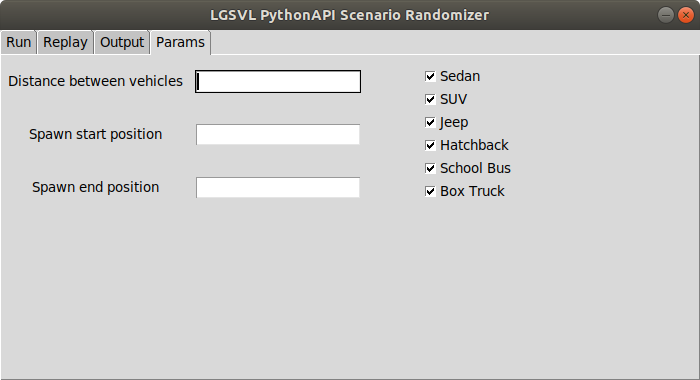
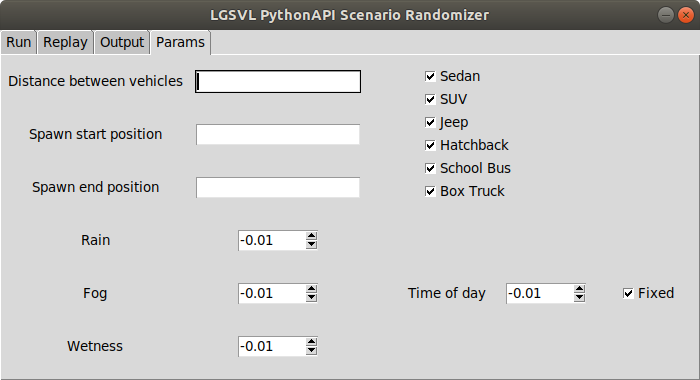
added weather

diff --git a/RS_scripts/GUI.py b/RS_scripts/GUI.py
@@ -33,6 +33,7 @@ tabControl.add(tab3, text="Output")
 tab4 = ttk.Frame(tabControl)
 tabControl.add(tab4, text='Params')
 
+
 # ~~~~~~~~~~~~~~~~~~~~~~~~~~~~~~~~~~~~~~~~~~~~~~~~~~~~~~~~~~~~~~~~~~~~~~~~~~~~~~~~~~~~~~~~~~~
 # These functions are mostly helper functions, which are called by various buttons and entry boxes
 
@@ -86,6 +87,50 @@ def validate_float(action, index, value_if_allowed,
                 return True
             except ValueError:
                 return False
+        else:
+            return False
+    else:
+        return True
+
+
+# validate only ints or floats are entered in entry box, negatives not allowed
+# noinspection PyUnusedLocal
+def validate_float_spinbox(action, index, value_if_allowed,
+                           prior_value, text, validation_type, trigger_type, widget_name):
+    # action=1 -> insert
+    if action == '1':
+        if text in '0123456789.':
+            try:
+                float(value_if_allowed)
+            except ValueError:
+                return False
+            else:
+                if float(value_if_allowed) > 1.0:
+                    return False
+                else:
+                    return True
+        else:
+            return False
+    else:
+        return True
+
+
+# validate only ints or floats are entered in entry box, negatives not allowed
+# noinspection PyUnusedLocal
+def validate_float_timeofday(action, index, value_if_allowed,
+                             prior_value, text, validation_type, trigger_type, widget_name):
+    # action=1 -> insert
+    if action == '1':
+        if text in '0123456789.':
+            try:
+                float(value_if_allowed)
+            except ValueError:
+                return False
+            else:
+                if float(value_if_allowed) > 24.0:
+                    return False
+                else:
+                    return True
         else:
             return False
     else:
@@ -332,7 +377,6 @@ def validate_pickles(path):
 
 # show and format nicely the existing pickle files in the temp folder, as checkboxes
 def update_available_replays(canvas):
-    print('update canvas')
     try:
         keys = getKeys('')
         if keys == '':
@@ -400,7 +444,9 @@ def run():
         msg = Randomizer.run(tab1_vehicle_name_entry.get(), variable_NPCs.get(), tab1_map_entry.get(),
                              tab1_runtime_entry.get(), tab1_seed_entry.get(), tab1_timescale_entry.get(),
                              distbetween=tab4_distbetweencars_entry.get(), cars_to_use=array_vehiclenames(),
-                             spawn_start=tab4_spawnstart_entry.get(), spawn_end=tab4_spawnend_entry.get())
+                             spawn_start=tab4_spawnstart_entry.get(), spawn_end=tab4_spawnend_entry.get(),
+                             rain=tab4_rain_entry.get(), fog=tab4_fog_entry.get(), wetness=tab4_wetness_entry.get(),
+                             timeofday=tab4_timeofday_entry.get(), fixed=var_fixed.get())
         addEntryContentToScrolledText(msg, tab3_output_scrolledtext)
     except ZeroDivisionError:
         tab1_nameerror_label.grid(columnspan=2, column=1)
@@ -413,7 +459,9 @@ def run():
             msg = Randomizer.run(tab1_vehicle_name_entry.get(), variable_NPCs.get(), tab1_map_entry.get(),
                                  tab1_runtime_entry.get(), tab1_seed_entry.get(), tab1_timescale_entry.get(),
                                  distbetween=tab4_distbetweencars_entry.get(), cars_to_use=array_vehiclenames(),
-                                 spawn_start=tab4_spawnstart_entry.get(), spawn_end=tab4_spawnend_entry.get())
+                                 spawn_start=tab4_spawnstart_entry.get(), spawn_end=tab4_spawnend_entry.get(),
+                                 rain=tab4_rain_entry.get(), fog=tab4_fog_entry.get(), wetness=tab4_wetness_entry.get(),
+                                 timeofday=tab4_timeofday_entry.get(), fixed=var_fixed.get())
             addEntryContentToScrolledText(msg, tab3_output_scrolledtext)
     update_available_replays(tab2_replays_canvas)
 
@@ -505,6 +553,10 @@ vcmd2 = (root.register(validate_int_negatives),
          '%d', '%i', '%P', '%s', '%S', '%v', '%V', '%W')
 vcmd3 = (root.register(validate_float),
          '%d', '%i', '%P', '%s', '%S', '%v', '%V', '%W')
+vcmd4 = (root.register(validate_float_spinbox),
+         '%d', '%i', '%P', '%s', '%S', '%v', '%V', '%W')
+vcmd5 = (root.register(validate_float_timeofday),
+         '%d', '%i', '%P', '%s', '%S', '%v', '%V', '%W')
 tab1_seed_entry = tk.Entry(tab1, validate='key', validatecommand=vcmd2)
 tab1_runs_entry = tk.Entry(tab1, validate='key', validatecommand=vcmd)
 tab1_runtime_entry = tk.Entry(tab1, validate='key', validatecommand=vcmd3)
@@ -575,6 +627,20 @@ tab4_spawnstart_label = tk.Label(tab4, text='Spawn start position')
 tab4_spawnstart_entry = tk.Entry(tab4, validate='key', validatecommand=vcmd3)
 tab4_spawnend_label = tk.Label(tab4, text='Spawn end position')
 tab4_spawnend_entry = tk.Entry(tab4, validate='key', validatecommand=vcmd3)
+tab4_rain_label = tk.Label(tab4, text='Rain')
+tab4_rain_entry = tk.Spinbox(tab4, format="%.2f", increment=0.01, from_=-0.01, to=1,
+                             validate="key", validatecommand=vcmd4, width=8)
+tab4_fog_label = tk.Label(tab4, text='Fog')
+tab4_fog_entry = tk.Spinbox(tab4, format="%.2f", increment=0.01, from_=-0.01, to=1,
+                            validate="key", validatecommand=vcmd4, width=8)
+tab4_wetness_label = tk.Label(tab4, text='Wetness')
+tab4_wetness_entry = tk.Spinbox(tab4, format="%.2f", increment=0.01, from_=-0.01, to=1,
+                                validate="key", validatecommand=vcmd4, width=8)
+tab4_timeofday_label = tk.Label(tab4, text='Time of day         ')
+tab4_timeofday_entry = tk.Spinbox(tab4, format="%.2f", increment=0.01, from_=-0.01, to=24,
+                                  validate="key", validatecommand=vcmd5, width=8)
+var_fixed = tk.IntVar(value=1)
+tab4_fixed_cb = tk.Checkbutton(tab4, text="Fixed", variable=var_fixed).grid(row=5, column=3, sticky='W', padx=50)
 
 tab4_distbetweencars_label.grid(row=1, padx=5, pady=15)
 tab4_distbetweencars_entry.grid(row=1, column=1, padx=5, pady=15)
@@ -582,6 +648,14 @@ tab4_spawnstart_label.grid(row=2, padx=5, pady=15)
 tab4_spawnstart_entry.grid(row=2, column=1, padx=5, pady=15)
 tab4_spawnend_label.grid(row=3, padx=5, pady=15)
 tab4_spawnend_entry.grid(row=3, column=1, padx=5, pady=15)
+tab4_rain_label.grid(row=4, padx=5, pady=15)
+tab4_rain_entry.grid(row=4, column=1, padx=5, pady=15)
+tab4_fog_label.grid(row=5, padx=5, pady=15)
+tab4_fog_entry.grid(row=5, column=1, padx=5, pady=15)
+tab4_wetness_label.grid(row=6, padx=5, pady=15)
+tab4_wetness_entry.grid(row=6, column=1, padx=5, pady=15)
+tab4_timeofday_label.grid(row=5, column=2, padx=5, pady=15)
+tab4_timeofday_entry.grid(row=5, column=2, columnspan=2, padx=5, pady=15)
 
 # Car checkboxes:
 # names = ["Sedan", "SUV", "Jeep", "Hatchback", "SchoolBus", "BoxTruck"]

diff --git a/RS_scripts/Randomizer.py b/RS_scripts/Randomizer.py
@@ -13,10 +13,10 @@ import signal
 # output message, will be referenced later
 endMsg = 'default'
 
-
 # run function, receives vehicle name, amount of NPCs, map name, runtime, seed, and timescale parameters, then creates
 # a random scenario using these variables
-def run(VN, NPC, MAP, RT, SD, TS, distbetween=None, spawn_start=None, spawn_end=None, cars_to_use=None):
+def run(VN, NPC, MAP, RT, SD, TS, distbetween=None, spawn_start=None, spawn_end=None, cars_to_use=None,
+        rain=None, fog=None, wetness=None, timeofday=None, fixed=None):
     # Main spawning script
     # Initial simulator setup
     sim = lgsvl.Simulator(os.environ.get("SIMULATOR_HOST", "127.0.0.1"), 8181)
@@ -68,6 +68,35 @@ def run(VN, NPC, MAP, RT, SD, TS, distbetween=None, spawn_start=None, spawn_end=
         spawn_end = 500.0
     else:
         spawn_end = float(spawn_end)
+
+    if rain == '-0.01':
+        rain = round(random.uniform(0, 1),2)
+    else:
+        rain = float(rain)
+
+    if fog == '-0.01':
+        fog = round(random.uniform(0, 1),2)
+    else:
+        fog = float(fog)
+
+    if wetness == '-0.01':
+        wetness = round(random.uniform(0, 1),2)
+    else:
+        wetness = float(wetness)
+
+    if timeofday == '-0.01':
+        timeofday = round(random.uniform(0, 24),2)
+    else:
+        timeofday = float(timeofday)
+
+    if fixed == 1:
+        fixed = True
+    else:
+        fixed = False
+
+    # Handling weather and time
+    sim.weather = lgsvl.WeatherState(rain=rain, fog=fog, wetness=wetness)
+    sim.set_time_of_day(timeofday, fixed=fixed)
 
     NPCNameList = []
 
@@ -166,7 +195,8 @@ def run(VN, NPC, MAP, RT, SD, TS, distbetween=None, spawn_start=None, spawn_end=
             else:
                 i = i + 1
         info = "{" + vehicleName + "} {" + map + "} {" + str(seed) + "} {" + str(runtime) + "} {" + str(timescale) + "}"
-        stuffToPickle = [statesToReplay, NPCNameList, info]
+        weather = "{" + str(rain) + "} {" + str(fog) + "} {" + str(wetness) + "} {" + str(timeofday) + "} {" + str(fixed) + "}"
+        stuffToPickle = [statesToReplay, NPCNameList, info, weather]
         pickle.dump(stuffToPickle, f)
         f.close()
         f = open(filename, "a")
@@ -380,6 +410,12 @@ def replay(key):
         vn, map, seed, runtime, timescale = info
         return str(vn), str(map), int(seed), float(runtime), float(timescale)
 
+    # function that splits the simulators weather settings into floats
+    def splitWeather(weather):
+        weather = weather[1:-1].split('} {')
+        rain, fog, wetness, timeofday, fixed = weather
+        return float(rain), float(fog), float(wetness), float(timeofday), bool(fixed)
+
     # gets the string of states, the list of names, and the replay info from the pickle file using the key inputted
     # by the user
     PickleToUnpickle = getPickled(key)
@@ -389,14 +425,21 @@ def replay(key):
     transformString = str(unpickled[0])
     names = unpickled[1]
     info = unpickled[2]
+    weather = unpickled[3]
     vehicleName, map, seed, runtime, timescale = splitInfo(info)
-    # vehicle, map, seed, runtime, timescale
+    rain, fog, wetness, timeofday, fixed = splitWeather(weather)
+
     if sim.current_scene == map:
         sim.reset()
     else:
         # Seed (optional) is an Integer (-2,147,483,648 - 2,147,483,647) that determines the "random" behavior of the
         # NPC vehicles and rain effects.
         sim.load(scene=map, seed=seed)
+
+    # Handling weather and time
+    sim.weather = lgsvl.WeatherState(rain=rain, fog=fog, wetness=wetness)
+    sim.set_time_of_day(timeofday, fixed=fixed)
+
     # List of transforms representing good spawn points
     spawns = sim.get_spawn()
     # Creates new agent state, makes it's transform equal to the first good spawn point.
